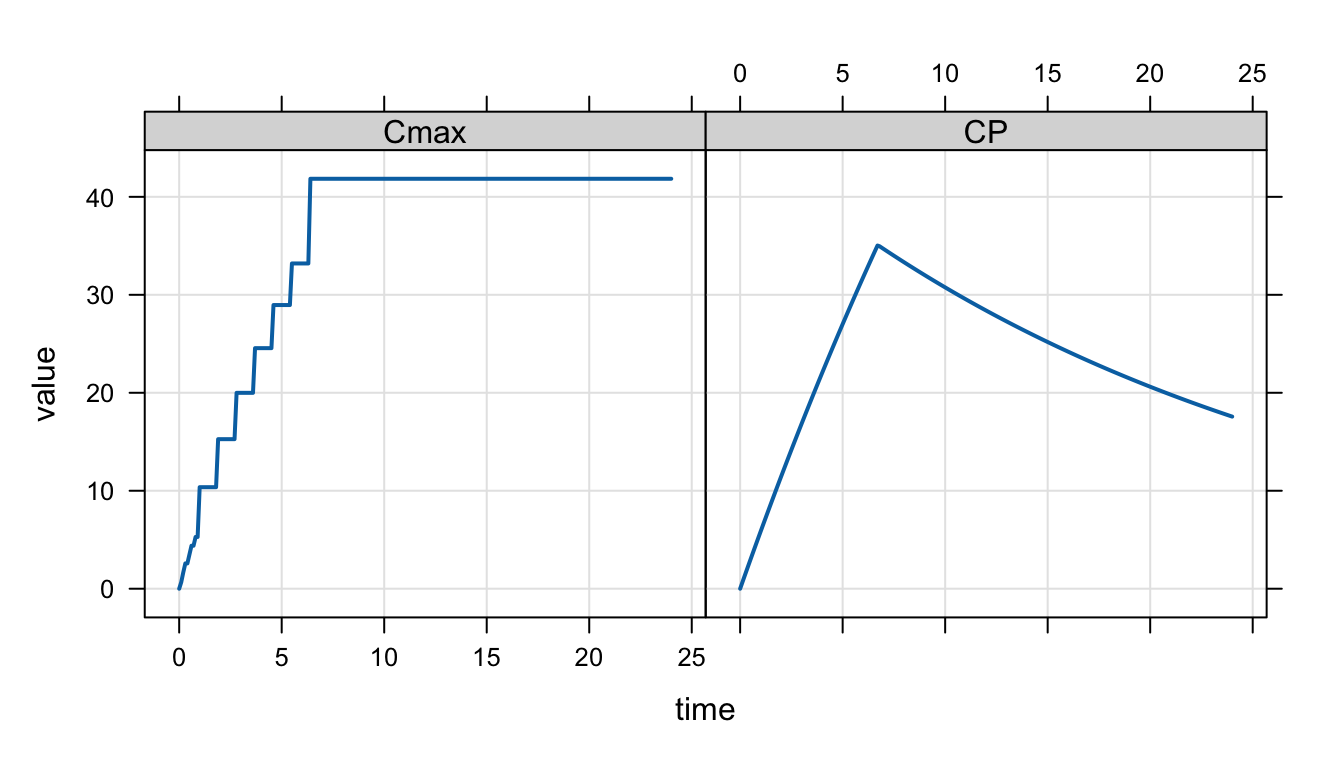
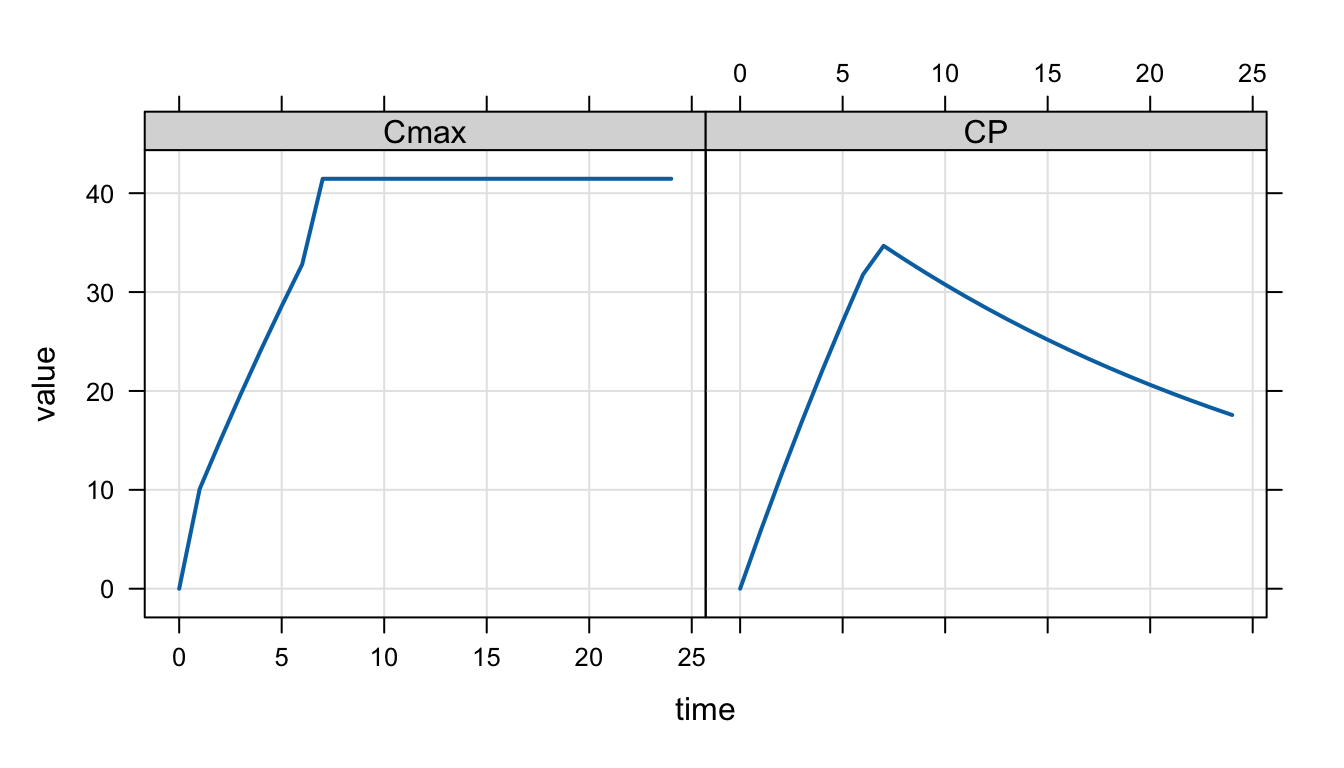
tweak figures

diff --git a/docs/posts/true-cmax.html b/docs/posts/true-cmax.html
@@ -314,7 +314,7 @@ background: #097f5f;
 <span id="cb1-17"><a href="#cb1-17" aria-hidden="true" tabindex="-1"></a><span class="cf">if</span>(CPode <span class="sc">&gt;</span> Cmax) Cmax <span class="ot">=</span> CPode;</span>
 <span id="cb1-18"><a href="#cb1-18" aria-hidden="true" tabindex="-1"></a></span>
 <span id="cb1-19"><a href="#cb1-19" aria-hidden="true" tabindex="-1"></a>dxdt_A1 <span class="ot">=</span> <span class="sc">-</span>KA <span class="sc">*</span> A1;</span>
-<span id="cb1-20"><a href="#cb1-20" aria-hidden="true" tabindex="-1"></a>dxdt_A2 <span class="ot">=</span>  KA <span class="sc">*</span> A1 <span class="sc">-</span> (CL<span class="sc">/</span>V)<span class="sc">*</span>A2;</span>
+<span id="cb1-20"><a href="#cb1-20" aria-hidden="true" tabindex="-1"></a>dxdt_A2 <span class="ot">=</span>  KA <span class="sc">*</span> A1 <span class="sc">-</span> CL <span class="sc">*</span> CPode;</span>
 <span id="cb1-21"><a href="#cb1-21" aria-hidden="true" tabindex="-1"></a></span>
 <span id="cb1-22"><a href="#cb1-22" aria-hidden="true" tabindex="-1"></a><span class="sc">$</span>ERROR</span>
 <span id="cb1-23"><a href="#cb1-23" aria-hidden="true" tabindex="-1"></a>CP <span class="ot">=</span> A2<span class="sc">/</span>V;</span>
@@ -396,7 +396,7 @@ background: #097f5f;
 <pre><code>[1] -0.001783364</code></pre>
 </div>
 </div>
-<p>But note this is likely problem-dependent: a smaller <code>delta</code> value may be required for a good approximation in certain problems. But I find this approach works well for most situations.</p>
+<p>But note this is likely problem-dependent: a smaller <code>delta</code> value may be required for a good approximation in problems with different absorption characteristics. But I find this approach works well for most situations.</p>
 </section>
 <section id="infusion-dosing" class="level2" data-number="3">
 <h2 data-number="3" class="anchored" data-anchor-id="infusion-dosing"><span class="header-section-number">3</span> Infusion dosing</h2>
@@ -468,7 +468,7 @@ background: #097f5f;
 <div class="sourceCode cell-code" id="cb31"><pre class="sourceCode r code-with-copy"><code class="sourceCode r"><span id="cb31-1"><a href="#cb31-1" aria-hidden="true" tabindex="-1"></a>approx <span class="ot">&lt;-</span> <span class="fu">max</span>(out<span class="sc">$</span>CP)</span>
 <span id="cb31-2"><a href="#cb31-2" aria-hidden="true" tabindex="-1"></a><span class="dv">100</span> <span class="sc">*</span> (approx <span class="sc">-</span> true_infusion) <span class="sc">/</span> true_infusion</span></code><button title="Copy to Clipboard" class="code-copy-button"><i class="bi"></i></button></pre></div>
 <div class="cell-output cell-output-stdout">
-<pre><code>[1] -0.1482349</code></pre>
+<pre><code>[1] -1.147726</code></pre>
 </div>
 </div>
 <section id="get-cmax-from-the-end-of-the-infusion" class="level3" data-number="3.1">
@@ -490,7 +490,11 @@ background: #097f5f;
 <div class="sourceCode cell-code" id="cb34"><pre class="sourceCode c code-with-copy"><code class="sourceCode c"><span id="cb34-1"><a href="#cb34-1" aria-hidden="true" tabindex="-1"></a>$DES</span>
 <span id="cb34-2"><a href="#cb34-2" aria-hidden="true" tabindex="-1"></a>CPode <span class="op">=</span> A2<span class="op">/</span>V<span class="op">;</span></span>
 <span id="cb34-3"><a href="#cb34-3" aria-hidden="true" tabindex="-1"></a></span>
-<span id="cb34-4"><a href="#cb34-4" aria-hidden="true" tabindex="-1"></a><span class="cf">if</span><span class="op">(</span>CPode <span class="op">&gt;</span> Cmax <span class="op">&amp;&amp;</span> <span class="op">!</span>SS_ADVANCE<span class="op">)</span> Cmax <span class="op">=</span> CPode<span class="op">;</span></span></code><button title="Copy to Clipboard" class="code-copy-button"><i class="bi"></i></button></pre></div>
+<span id="cb34-4"><a href="#cb34-4" aria-hidden="true" tabindex="-1"></a><span class="cf">if</span><span class="op">(</span>CPode <span class="op">&gt;</span> Cmax <span class="op">&amp;&amp;</span> <span class="op">!</span>SS_ADVANCE<span class="op">)</span> Cmax <span class="op">=</span> CPode<span class="op">;</span></span>
+<span id="cb34-5"><a href="#cb34-5" aria-hidden="true" tabindex="-1"></a></span>
+<span id="cb34-6"><a href="#cb34-6" aria-hidden="true" tabindex="-1"></a>dxdt_A1 <span class="op">=</span> <span class="op">-</span>KA <span class="op">*</span> A1<span class="op">;</span></span>
+<span id="cb34-7"><a href="#cb34-7" aria-hidden="true" tabindex="-1"></a></span>
+<span id="cb34-8"><a href="#cb34-8" aria-hidden="true" tabindex="-1"></a>dxdt_A2 <span class="op">=</span>  KA <span class="op">*</span> A1 <span class="op">-</span> CL <span class="op">*</span> CPode<span class="op">;</span></span></code><button title="Copy to Clipboard" class="code-copy-button"><i class="bi"></i></button></pre></div>
 </div>
 <p>This says to only update <code>Cmax</code> if the system is not in the process of advancing to steady state.</p>
 

diff --git a/docs/index.html b/docs/index.html
@@ -276,7 +276,7 @@ window.Quarto = {
 
 <div class="quarto-listing quarto-listing-container-default" id="listing-listing">
 <div class="list quarto-listing-default">
-<div class="quarto-post image-right" data-index="0" data-categories="Cmax,ODE" data-listing-date-sort="1731564000000" data-listing-file-modified-sort="1733715622874" data-listing-date-modified-sort="NaN" data-listing-reading-time-sort="7" data-listing-word-count-sort="1217">
+<div class="quarto-post image-right" data-index="0" data-categories="Cmax,ODE" data-listing-date-sort="1731564000000" data-listing-file-modified-sort="1733718066316" data-listing-date-modified-sort="NaN" data-listing-reading-time-sort="7" data-listing-word-count-sort="1232">
 <div class="thumbnail">
 <p><a href="./posts/true-cmax.html" class="no-external"></a></p><a href="./posts/true-cmax.html" class="no-external">
 <p><img loading="lazy" src="./posts/true-cmax_files/figure-html/visualize-overshoot-1.png" class="thumbnail-image"></p>
